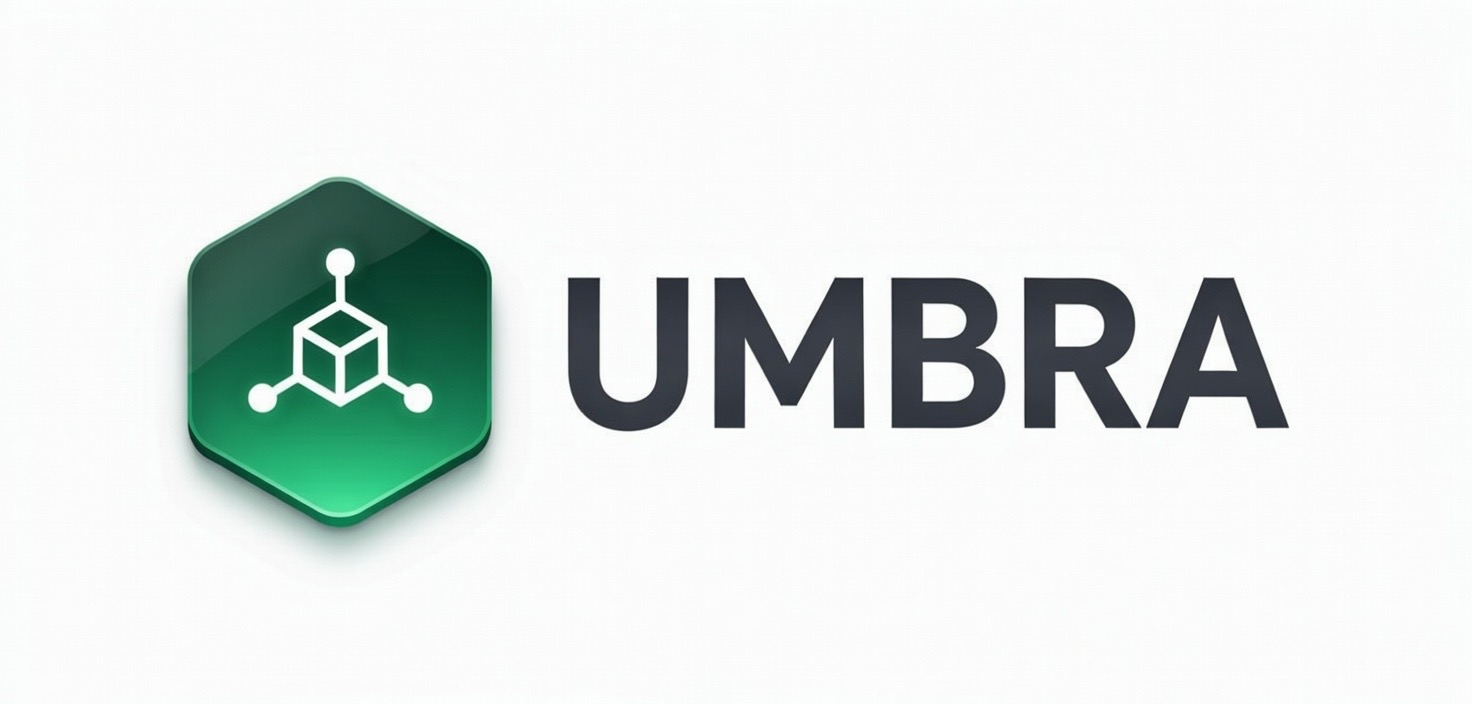
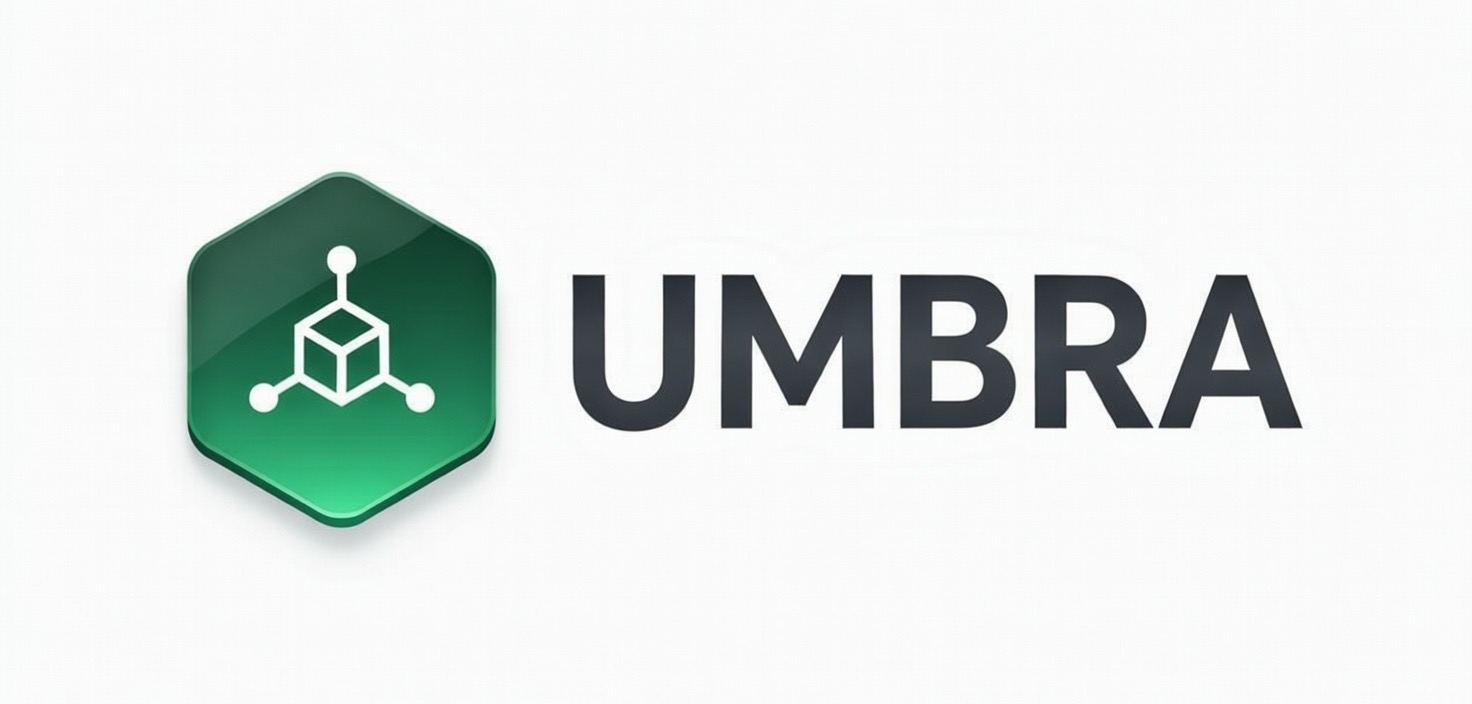
Fix simulator hang, add simulator to CI, update header image
The simulator hung on Phase 1 because assert_deterministic_signing called
the full hybrid sign() (including SPHINCS+) twice per node — tens of
seconds each in debug mode. Changed to use dilithium5::detached_sign
directly since only Dilithium5 determinism matters for VRF correctness.

Also disable UPnP in the simulator (no gateway in CI/local), move the
simulator run from the nightly full-crypto job into the regular CI
pipeline with fast-tests, and update the header image.

diff --git a/src/crypto/vrf.rs b/src/crypto/vrf.rs
@@ -25,6 +25,9 @@
 
 use serde::{Deserialize, Serialize};
 
+use pqcrypto_dilithium::dilithium5;
+use pqcrypto_traits::sign::{DetachedSignature as SigTrait, SecretKey as SignSkTrait};
+
 #[cfg(not(feature = "fast-tests"))]
 use super::keys::SPHINCS_SIG_BYTES;
 use super::keys::{SigningKeypair, SigningPublicKey, DILITHIUM5_SIG_BYTES};
@@ -225,10 +228,13 @@ impl VrfOutput {
 /// Panics if signing the same message twice produces different Dilithium signatures.
 pub fn assert_deterministic_signing(keypair: &SigningKeypair) {
     let test_msg = crate::hash_domain(b"umbra.vrf.determinism_check", b"test");
-    let sig1 = keypair.sign(&test_msg);
-    let sig2 = keypair.sign(&test_msg);
+    let dil_sk = dilithium5::SecretKey::from_bytes(&keypair.secret.dilithium)
+        .expect("FATAL: corrupted Dilithium5 secret key");
+    let sig1 = dilithium5::detached_sign(&test_msg, &dil_sk);
+    let sig2 = dilithium5::detached_sign(&test_msg, &dil_sk);
     assert_eq!(
-        sig1.dilithium, sig2.dilithium,
+        sig1.as_bytes(),
+        sig2.as_bytes(),
         "FATAL: Dilithium5 signing is not deterministic. \
          The VRF construction requires deterministic signatures."
     );

diff --git a/src/bin/simulator.rs b/src/bin/simulator.rs
@@ -288,7 +288,10 @@ async fn bootstrap_network(
             keypair: signing_kp.clone(),
             kem_keypair: kem_kp.clone(),
             genesis_validator: true,
-            nat_config: umbra::config::NatConfig::default(),
+            nat_config: umbra::config::NatConfig {
+                upnp: false,
+                ..umbra::config::NatConfig::default()
+            },
         };
 
         let mut node = Node::new(config)

diff --git a/README.md b/README.md
@@ -1,5 +1,5 @@
 <p align="center">
-  <img src="assets/umbra-header.jpg?v=2" alt="Umbra" width="850">
+  <img src="assets/umbra-header.jpg?v=3" alt="Umbra" width="850">
 </p>
 
 Umbra is a post-quantum private cryptocurrency with zk-STARKs and DAG-BFT consensus — **anonymous**, **unlinkable**, **untraceable**, **quantum-resistant**, and **instantly final**, with no trusted setup required.
